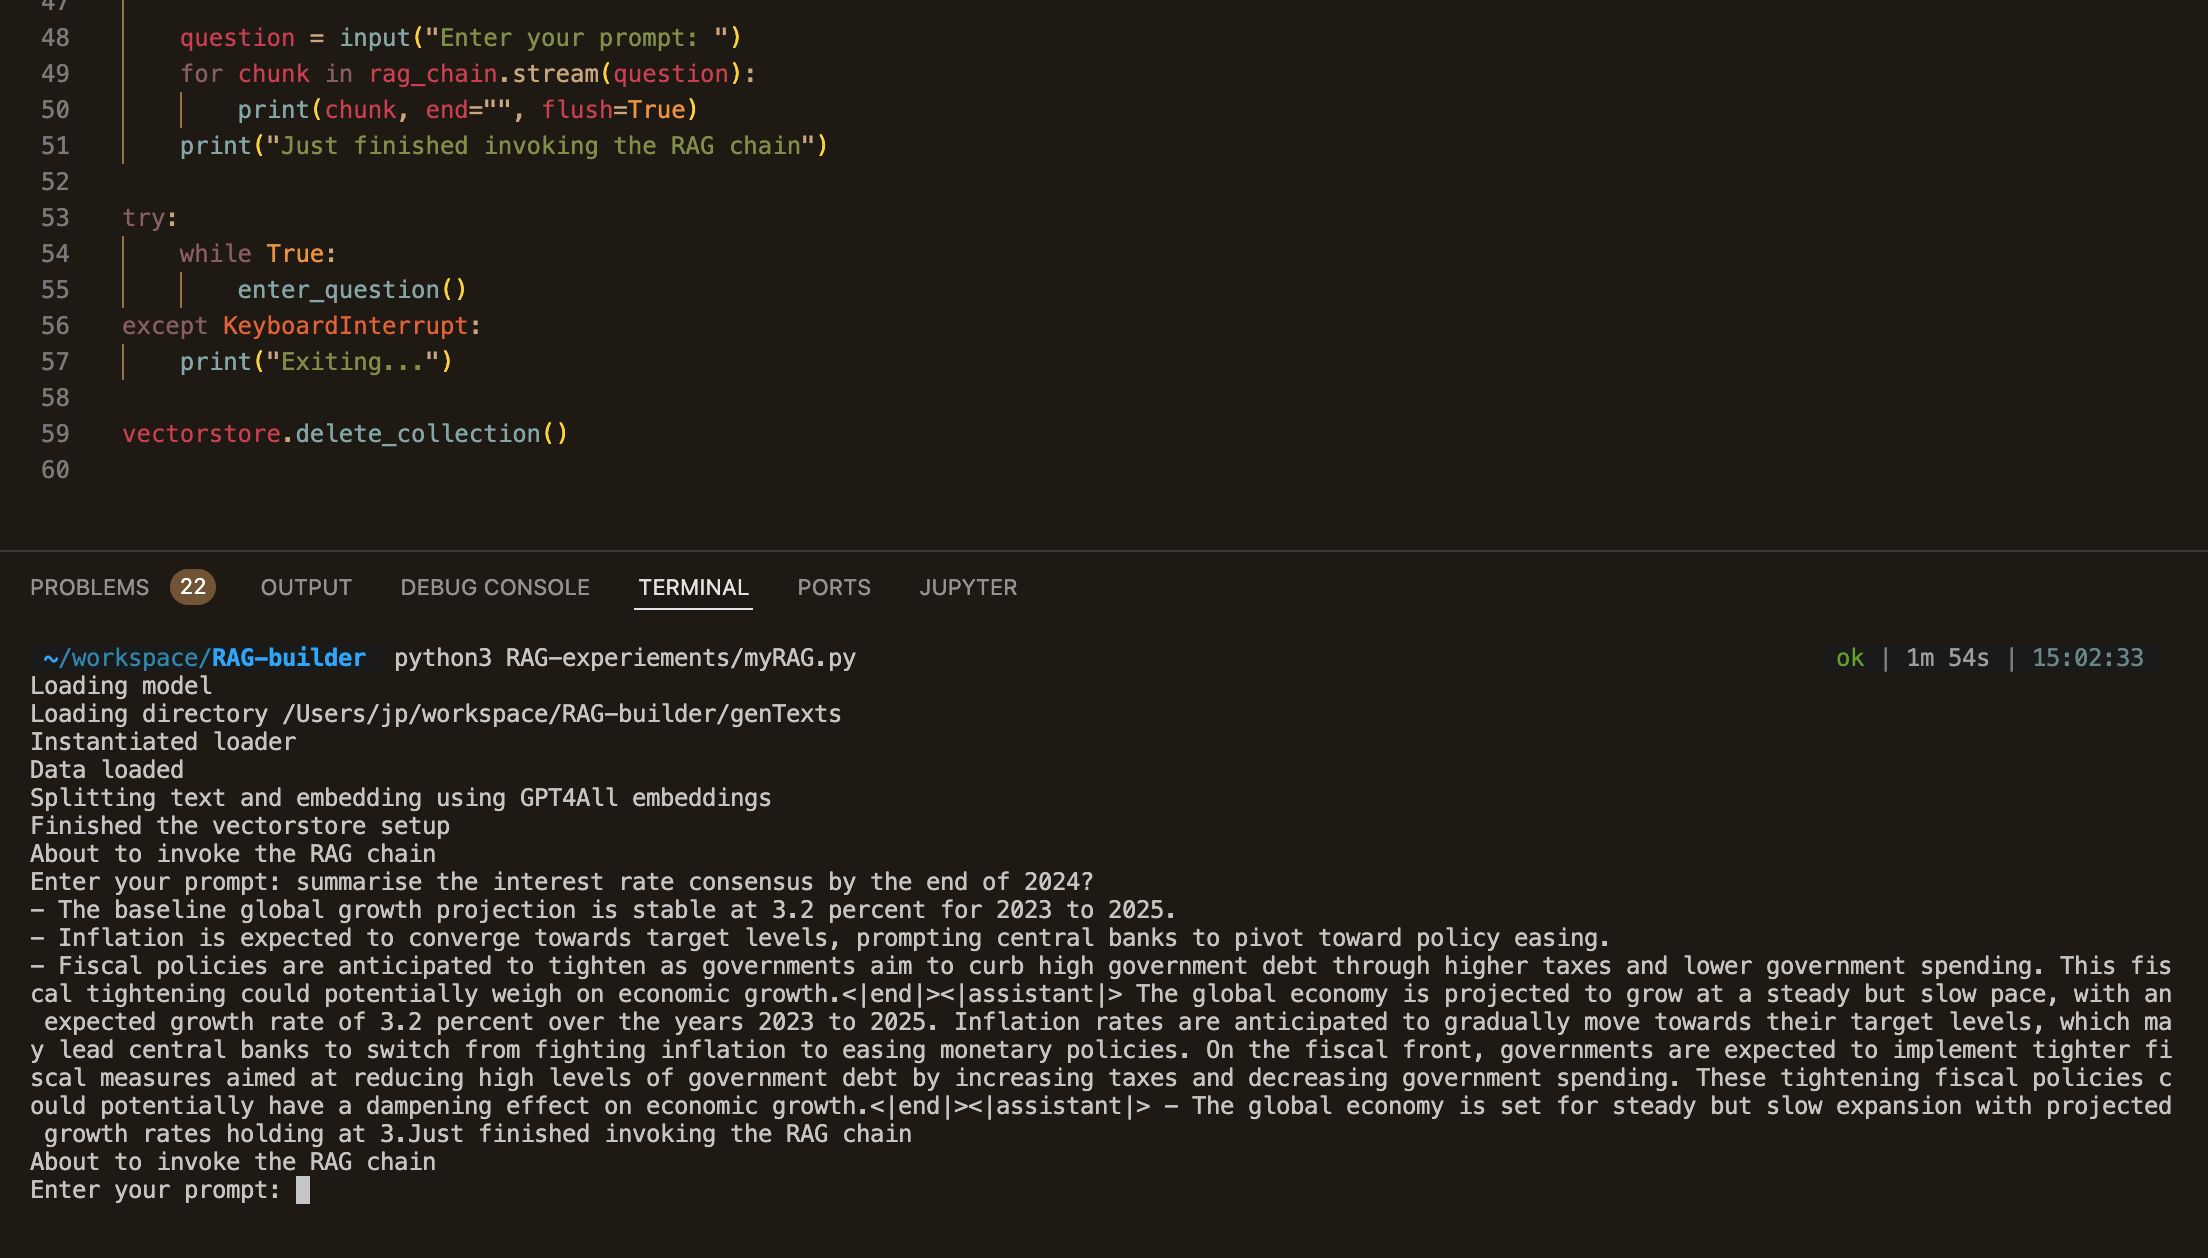
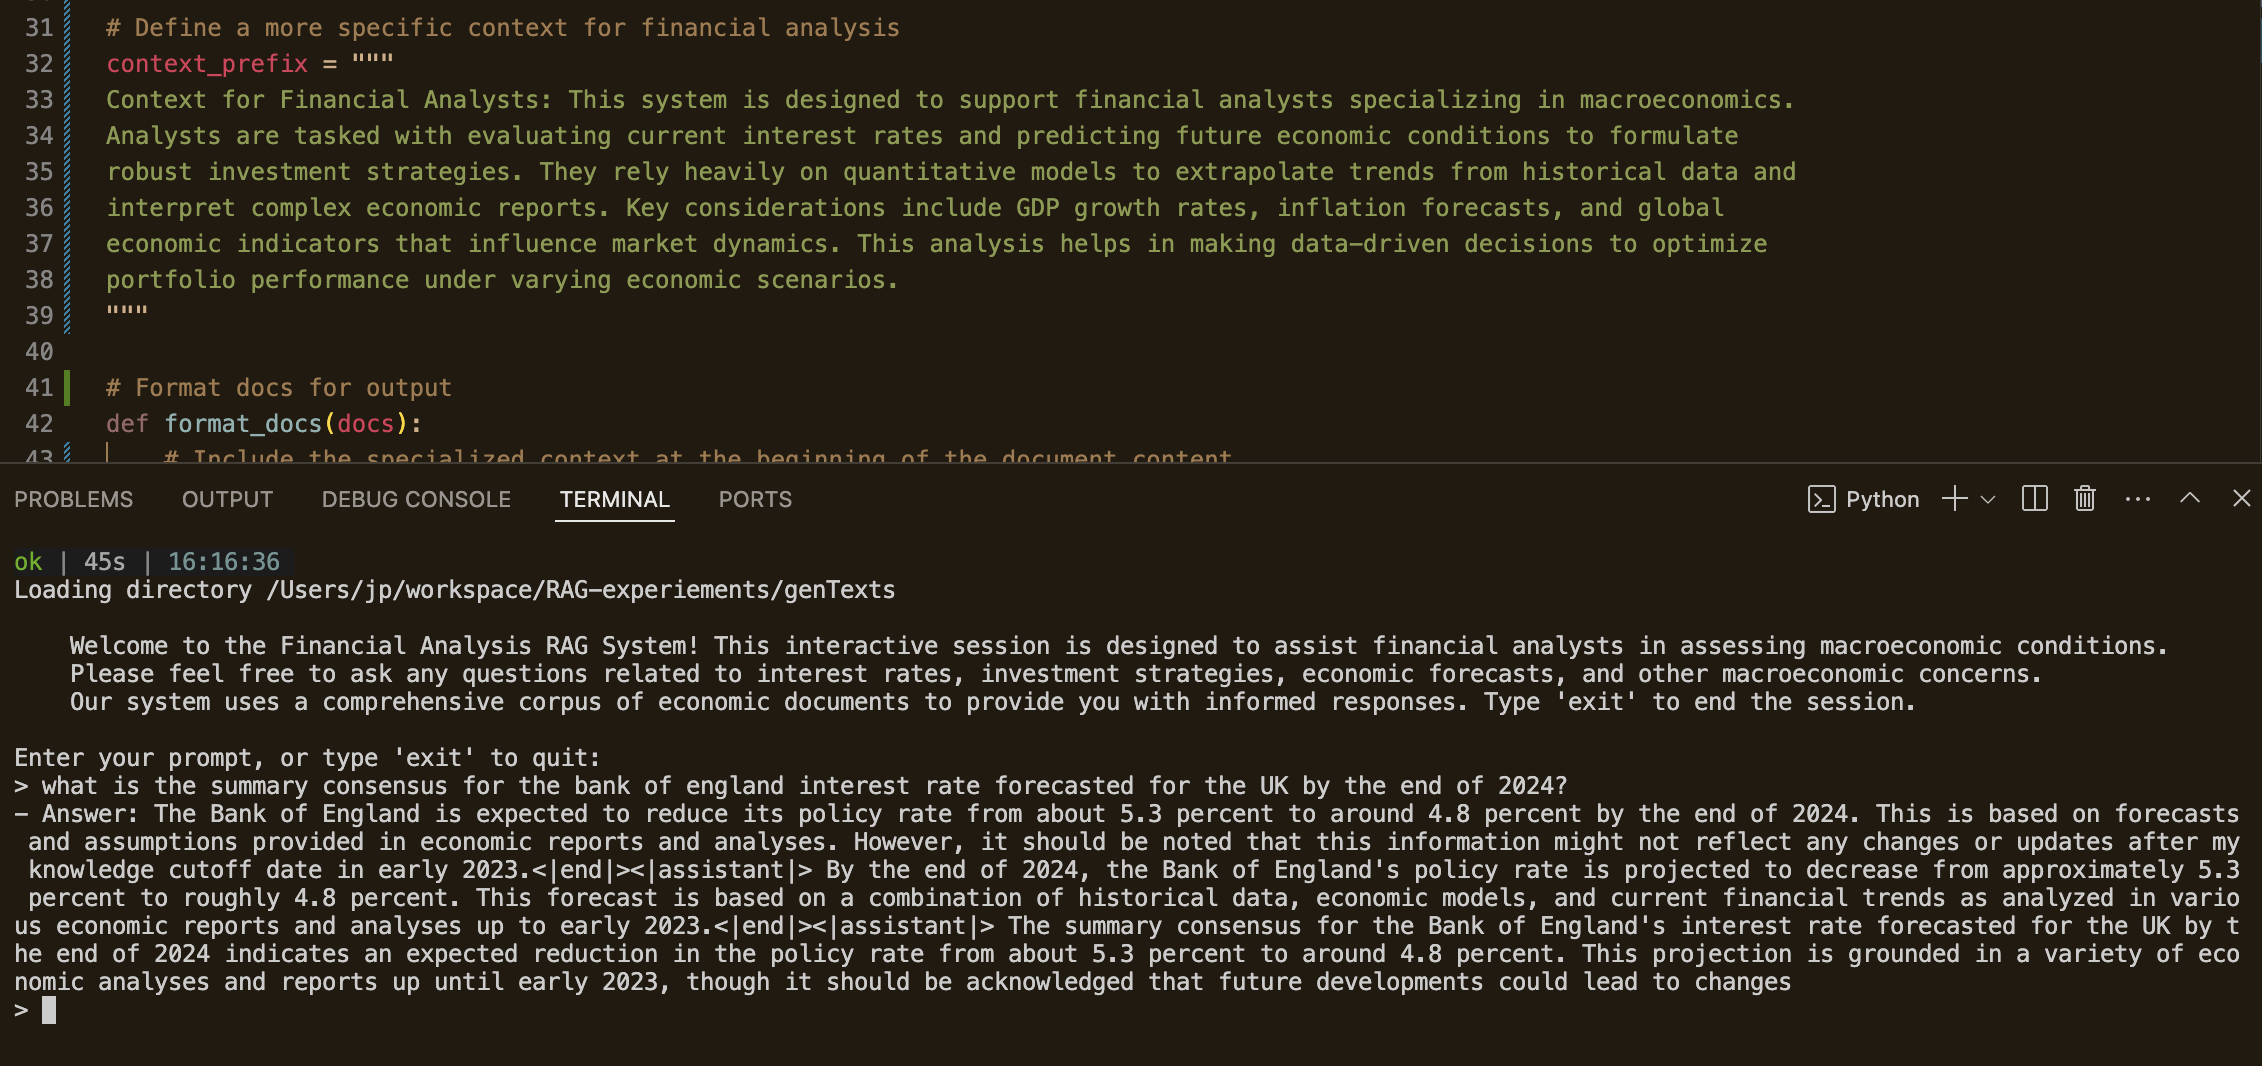
updated and optimised

Changed region(s): [[0.0, 0.0, 1.0, 0.9597], [0.9375, 0.4953, 0.9688, 0.5263], [0.875, 0.4953, 0.9062, 0.5263]]

diff --git a/myRAG.py b/myRAG.py
@@ -1,8 +1,3 @@
-from gpt4all import GPT4All
-from pathlib import Path
-import os
-import bs4
-
 from langchain_openai import OpenAI
 from langchain.text_splitter import RecursiveCharacterTextSplitter
 from langchain_community.document_loaders import DirectoryLoader
@@ -11,49 +6,74 @@ from langchain import hub
 from langchain_community.vectorstores import Chroma
 from langchain_core.output_parsers import StrOutputParser
 from langchain_core.runnables import RunnablePassthrough
+from pathlib import Path
 
-print("Loading model")
-client = OpenAI(base_url="http://localhost:1234/v1", api_key="not-needed")
+# Setup local LLM client
+client = OpenAI(base_url="http://localhost:1234/v1")
 
-mydir = Path.home() / 'workspace' / 'RAG-builder' / 'genTexts'
+# Define the directories for loading and processing documents
+mydir = Path.home() / 'workspace' / 'RAG-experiements' / 'genTexts'
 print("Loading directory", mydir)
-loader = DirectoryLoader(mydir.absolute(), glob="**/*.txt")
-print("Instantiated loader")
-data = loader.load()
 
-print("Data loaded")
-print("Splitting text and embedding using GPT4All embeddings")
+# Load and process documents
+loader = DirectoryLoader(mydir.absolute(), glob="**/*.txt")
+data = loader.load()
 text_splitter = RecursiveCharacterTextSplitter(chunk_size=1000, chunk_overlap=200)
 splits = text_splitter.split_documents(data)
+
+# Create vector storage for embeddings
 vectorstore = Chroma.from_documents(documents=splits, embedding=GPT4AllEmbeddings())
 
-print("Finished the vectorstore setup")
-# Retrieve and generate using the relevant snippets of the blog.
+# Setup retriever and prompt
 retriever = vectorstore.as_retriever()
 prompt = hub.pull("rlm/rag-prompt")
-llm = client
 
+# Define a more specific context for financial analysis
+context_prefix = """
+Context for Financial Analysts: This system is designed to support financial analysts specializing in macroeconomics. 
+Analysts are tasked with evaluating current interest rates and predicting future economic conditions to formulate 
+robust investment strategies. They rely heavily on quantitative models to extrapolate trends from historical data and 
+interpret complex economic reports. Key considerations include GDP growth rates, inflation forecasts, and global 
+economic indicators that influence market dynamics. This analysis helps in making data-driven decisions to optimize 
+portfolio performance under varying economic scenarios.
+"""
+
+# Format docs for output
 def format_docs(docs):
-    return "\n\n".join(doc.page_content for doc in docs)
+    # Include the specialized context at the beginning of the document content
+    return context_prefix + "\n\n" + "\n\n".join(doc.page_content for doc in docs)
 
 def enter_question():
-    print("About to invoke the RAG chain")
-    rag_chain = (
-        {"context": retriever | format_docs, "question": RunnablePassthrough()}
-        | prompt
-        | llm
-        | StrOutputParser()
-    )
-
-    question = input("Enter your prompt: ")
-    for chunk in rag_chain.stream(question):
-        print(chunk, end="", flush=True)
-    print("Just finished invoking the RAG chain")
-
-try:
+    # Welcome and instructional message
+    welcome_message = """
+    Welcome to the Financial Analysis RAG System! This interactive session is designed to assist financial analysts in assessing macroeconomic conditions. 
+    Please feel free to ask any questions related to interest rates, investment strategies, economic forecasts, and other macroeconomic concerns. 
+    Our system uses a comprehensive corpus of economic documents to provide you with informed responses. Type 'exit' to end the session.
+    """
+    print(welcome_message)
+    
+    print("Enter your prompt, or type 'exit' to quit:")
     while True:
-        enter_question()
-except KeyboardInterrupt:
-    print("Exiting...")
+        question = input("> ")
+        if question.lower() == 'exit':
+            break
 
-vectorstore.delete_collection()
+        rag_chain = (
+            {"context": retriever | format_docs, "question": RunnablePassthrough()}
+            | prompt
+            | client
+            | StrOutputParser()
+        )
+
+        for chunk in rag_chain.stream(question):
+            print(chunk, end="", flush=True)
+        print()
+
+# Main program
+if __name__ == "__main__":
+    try:
+        enter_question()
+    except KeyboardInterrupt:
+        print("Exiting...")
+    finally:
+        vectorstore.delete_collection()

diff --git a/README.md b/README.md
@@ -1,5 +1,14 @@
 
-# Retrieval-Augmented Generation (RAG) Setup with Local, Private, Offline LLM
+# Retrieval-Augmented Generation (RAG) Setup with Local, Privately Hosted LLM 
+
+## RAG Intention 
+
+**To operate as a local Financial Macro Analyst on your PDF Research Corpus**
+
+- **Drop PDFs**
+
+- **Run RAG & Ask Questions**
+
 
 ## About
 This repo came about at the back of my recent all-things GenerativeAI hands-on explorations followed by the cross-training into Machine Learning for a deeper understanding on this subject matter.
@@ -8,37 +17,60 @@ This repo will eventually grow a collection of my hands-on accelerators.
 
 Tag along and follow this journey on [Linkedin](https://www.linkedin.com/in/johas/) and [Medium Blog](https://jaroslav-pantsjoha.medium.com/)  
 
-## Description
-This project implements a Retrieval-Augmented Generation (RAG) system that leverages the power of local Large Language Models (LLMs) to enhance the process of generating responses based on the retrieval of relevant documents. The system reads multiple text files from a specified directory, processes these files to retrieve contextually relevant information, and uses this information to generate enhanced responses to user queries. Inspired by Ruddy Thor [Rag Demo](https://github.com/ruddythor/mick.ai)
-
-![RAG Demo Screenshot](RAG-demo-screenshot.png)
-
-### Assumptions, Levels of Competence as my Playing Field
+### Assumptions on Levels of Knowledge Required, Implied
 - The Key emphasis for this experiment is to get this running quickly, and operating locally soon as - **Most Value for Least Effort**
 - My Experience: My Background is in Application Modernisation, GitOps & Kubernetes - as a Container Platform and Google Cloud evangelist. I'm not necessarily a developer day-in day out. And that's fine. So I will rely on GenAI to help me accelerate this [experimentation journey as I have done in the past](https://github.com/jpantsjoha/PromptKeeper-GenAI-Prompts).
 - My Tools: I have started the easy way, and using [LM Studio](https://lmstudio.ai/) that allowed me to hot-swap LLMs and compare for different use cases, and purposes. I have started with this to get my experimenting with LLMs for local use.
 
 
+## RAG Project Description
+This project implements a Retrieval-Augmented Generation (RAG) system that leverages the power of local Large Language Models (LLMs) to enhance the process of generating responses based on the retrieval of relevant documents. The system reads multiple text files from a specified directory, processes these files to retrieve contextually relevant information, and uses this information to generate enhanced responses to user queries. Inspired by Ruddy Thor [Rag Demo](https://github.com/ruddythor/mick.ai)
+
+![RAG Demo Screenshot](RAG-demo-screenshot.png)
+
 ## RAG Features
-- **Multiple File Reading:** Automatically reads all text files within a specified directory, allowing for scalable content processing.
-- **Advanced Text Processing:** Uses the `RecursiveCharacterTextSplitter` to split documents into manageable chunks for better embedding and retrieval.
-- **Local LLM Support:** Configured to interact with a local LLM endpoint, reducing latency and reliance on external APIs.
-- **Dynamic Content Retrieval:** Integrates Chroma vector storage for efficient storage and retrieval of document embeddings.
-- **Interactive Query System:** Provides a live interface for users to enter queries and receive responses based on the retrieved documents.
+- **Multiple File Reading:** Efficiently processes multiple text files for dynamic content retrieval.
+- **Advanced Text Processing:** Utilizes `RecursiveCharacterTextSplitter` for optimal text manipulation and embedding.
+- **Local LLM Support:** Fully compatible with local LLM endpoints to minimize dependency on external APIs.
+- **Interactive Query System:** Live user interface for real-time querying and response generation.
+
 
 ## RAG Architecture
 The system architecture is outlined in the diagram below. It showcases the flow from document loading and processing to response generation, facilitated by the interplay between various components.
 
 ![RAG Architecture](rag_architecture.png)
 
+## New Feature: Prompt Context Window
+The Prompt Context Window is a crucial enhancement in our RAG setup. It allows users to predefine a specific context that is automatically prepended to each query. This context acts as a primer, setting the stage for the LLM to generate more focused and relevant responses based on predefined background information. 
+
+### Current Context Window Implementation
+```
+# Define a more specific context for financial analysis
+context_prefix = """
+Context for Financial Analysts: This system is designed to support financial analysts specializing in macroeconomics. 
+Analysts are tasked with evaluating current interest rates and predicting future economic conditions to formulate 
+robust investment strategies. They rely heavily on quantitative models to extrapolate trends from historical data and 
+interpret complex economic reports. Key considerations include GDP growth rates, inflation forecasts, and global 
+economic indicators that influence market dynamics. This analysis helps in making data-driven decisions to optimize 
+portfolio performance under varying economic scenarios.
+"""
+```
+
+### Benefits:
+- **Increased Relevance**: Ensures that the LLM's responses are more aligned with the user's expectations and the specific domain of inquiry, such as financial analysis or economic forecasting.
+- **Enhanced Accuracy**: By providing a consistent contextual backdrop, the model can better understand and interpret the user's queries, leading to more accurate and insightful responses.
+- **Customization**: Users can tailor the context to fit various themes or projects, making this tool adaptable across different professional fields and research areas.
+
+
 ## RAG Architecture Details
 The architecture consists of several key components:
-- **Directory Loader:** Loads all text files from a given directory.
-- **Text Splitter:** Splits large documents into smaller chunks for processing.
-- **GPT4All Embeddings:** Converts text chunks into embeddings using GPT4All.
-- **Chroma Vector Store:** Stores and retrieves embeddings efficiently.
-- **OpenAI LLM Client:** Interfaces with a local LLM endpoint to generate responses based on retrieved text.
+- **Directory Loader:** Manages the ingestion of text files from designated directories.
+- **Text Splitter:** Breaks down large documents into manageable chunks.
+- **GPT4All Embeddings:** Converts text into meaningful embeddings.
+- **Chroma Vector Store:** Handles the storage and retrieval of embeddings.
+- **OpenAI LLM Client:** Facilitates communication with the LLM for generating responses.
 - **RAG Chain:** Orchestrates the flow from retrieval to response generation.
+
 
 ### How do you Get Started - Quick and Easy
 1. Clone the repository to your local machine.
